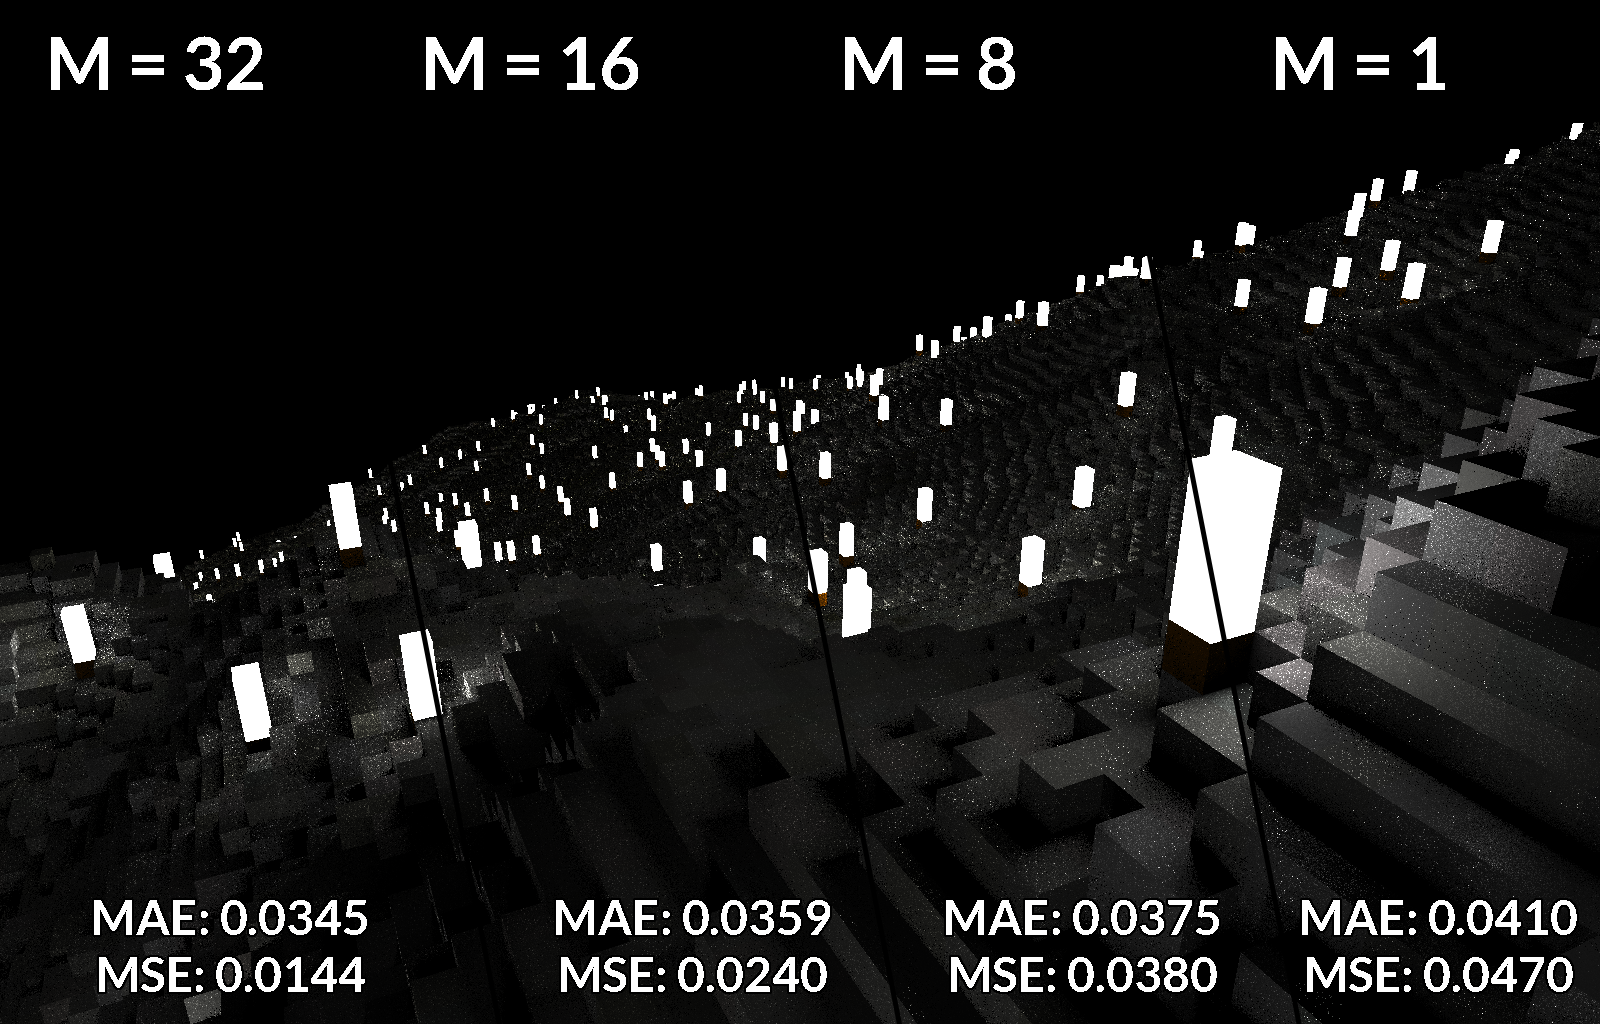
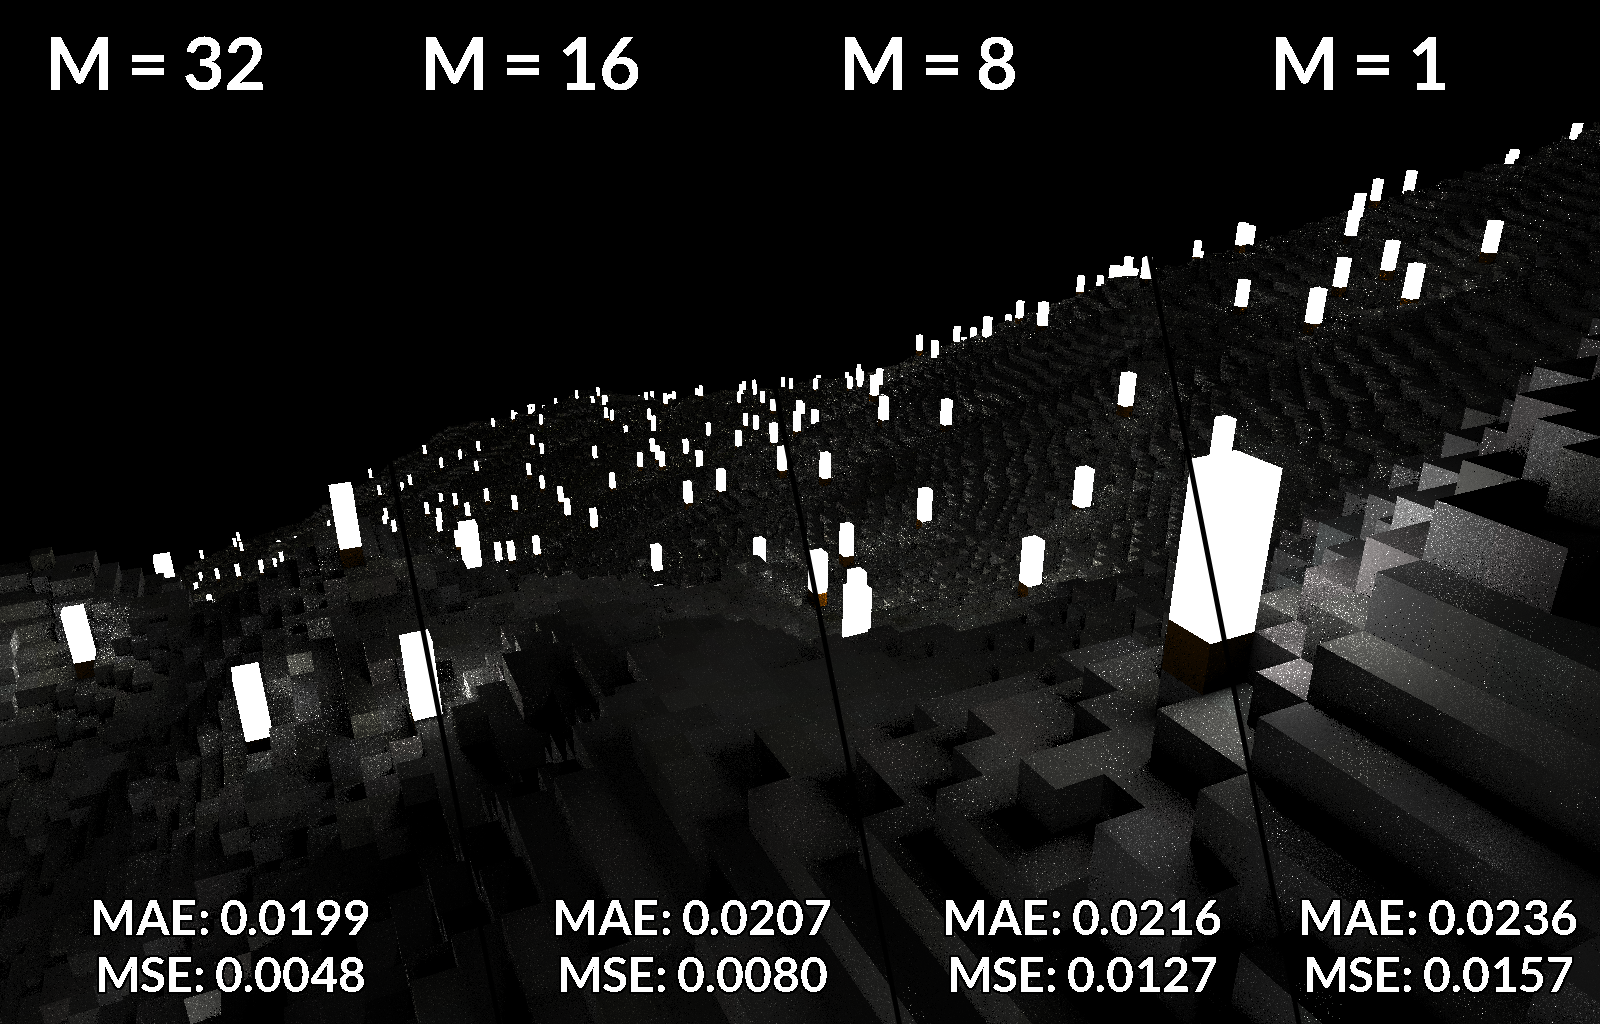
mae mse and skydome

diff --git a/mse.cpp b/mse.cpp
@@ -42,14 +42,13 @@ float CalculateMSE(const float4* gt, const float4* data, int width, int height)
 	{
 		float3 _gt = make_float3(gt[i]);
 		float3 _data = make_float3(data[i]);
-		float Y = length(_gt);
-		float Y_hat = length(_data);
 
 		//float Y = (gt[i].x + gt[i].y + gt[i].z) / 3.0f;
 		//float Y_hat = (data[i].x + data[i].y + data[i].z) / 3.0f;
-		total += (Y - Y_hat) * (Y - Y_hat);
+		float3 y = (_gt - _data) * (_gt - _data);
+		total += y.x + y.y + y.z;
 	}
-	return total / N;
+	return total / (N * 3);
 }
 
 float CalculateRMAE(const float4* gt, const float4* data, int width, int height)
@@ -60,14 +59,13 @@ float CalculateRMAE(const float4* gt, const float4* data, int width, int height)
 	{
 		float3 _gt = make_float3(gt[i]);
 		float3 _data = make_float3(data[i]);
-		float Y = length(_gt);
-		float Y_hat = length(_data);
 
 		//float Y = (gt[i].x + gt[i].y + gt[i].z) / 3.0f;
 		//float Y_hat = (data[i].x + data[i].y + data[i].z) / 3.0f;
-		total += fabs(Y - Y_hat);
+		float3 y = fabs(_gt - _data);
+		total += y.x + y.y + y.z;
 	}
-	return total / N;
+	return total / (N * 3);
 }
 
 void stitchImage(std::filesystem::path p, vector<UBImage*> ubimages, int start, int segmentWidth)
@@ -205,51 +203,51 @@ void doCreateResultImages()
 		ToCompare[toCompareIndex].push_back(image);
 	}
 
-	{
-		path p = "screenbufferdata/results/point_sa_gt";
-		for (int i = 0; i < numberOfRasters; i++)
-		{
-			vector<UBImage*> _images;
-			_images.push_back(ToCompare[toCompareIndex - 1][i]);
-			_images.push_back(ToCompare[0][i]);
-			_images.push_back(gtImages[i]);
-			int w = _images[0]->width;
-			int segmentWidth = w / _images.size();
-			int start = 0.75f * segmentWidth;
-			stitchImage(p, _images, start, segmentWidth);
-		}
-	}
+	//{
+	//	path p = "screenbufferdata/results/point_sa_gt";
+	//	for (int i = 0; i < numberOfRasters; i++)
+	//	{
+	//		vector<UBImage*> _images;
+	//		_images.push_back(ToCompare[toCompareIndex - 1][i]);
+	//		_images.push_back(ToCompare[0][i]);
+	//		_images.push_back(gtImages[i]);
+	//		int w = _images[0]->width;
+	//		int segmentWidth = w / _images.size();
+	//		int start = 0.75f * segmentWidth;
+	//		stitchImage(p, _images, start, segmentWidth);
+	//	}
+	//}
 
-	{
-		path p = "screenbufferdata/results/gfxexp_sa_gt";
-		for (int i = 0; i < numberOfRasters; i++)
-		{
-			vector<UBImage*> _images;
-			_images.push_back(ToCompare[toCompareIndex][i]);
-			_images.push_back(ToCompare[0][i]);
-			_images.push_back(gtImages[i]);
-			int w = _images[0]->width;
-			int segmentWidth = w / _images.size();
-			int start = 0.75f * segmentWidth;
-			stitchImage(p, _images, start, segmentWidth);
-		}
-	}
+	//{
+	//	path p = "screenbufferdata/results/gfxexp_sa_gt";
+	//	for (int i = 0; i < numberOfRasters; i++)
+	//	{
+	//		vector<UBImage*> _images;
+	//		_images.push_back(ToCompare[toCompareIndex][i]);
+	//		_images.push_back(ToCompare[0][i]);
+	//		_images.push_back(gtImages[i]);
+	//		int w = _images[0]->width;
+	//		int segmentWidth = w / _images.size();
+	//		int start = 0.75f * segmentWidth;
+	//		stitchImage(p, _images, start, segmentWidth);
+	//	}
+	//}
 
-	{
-		path p = "screenbufferdata/results/sa_32_16_8_1";
-		for (int i = 0; i < numberOfRasters; i++)
-		{
-			vector<UBImage*> _images;
-			_images.push_back(ToCompare[0][i]);
-			_images.push_back(ToCompare[1][i]);
-			_images.push_back(ToCompare[2][i]);
-			_images.push_back(ToCompare[3][i]);
-			int w = _images[0]->width;
-			int segmentWidth = w / _images.size();
-			int start = 0.75f * segmentWidth;
-			stitchImage(p, _images, start, segmentWidth);
-		}
-	}
+	//{
+	//	path p = "screenbufferdata/results/sa_32_16_8_1";
+	//	for (int i = 0; i < numberOfRasters; i++)
+	//	{
+	//		vector<UBImage*> _images;
+	//		_images.push_back(ToCompare[0][i]);
+	//		_images.push_back(ToCompare[1][i]);
+	//		_images.push_back(ToCompare[2][i]);
+	//		_images.push_back(ToCompare[3][i]);
+	//		int w = _images[0]->width;
+	//		int segmentWidth = w / _images.size();
+	//		int start = 0.75f * segmentWidth;
+	//		stitchImage(p, _images, start, segmentWidth);
+	//	}
+	//}
 }
 
 // -----------------------------------------------------------

diff --git a/mygame.cpp b/mygame.cpp
@@ -17,6 +17,7 @@ static bool shouldDumpBuffer = false;
 static bool takeScreenshot = false;
 static bool useSpatialResampling = USESPATIAL;
 static bool useTemporalResampling = USETEMPORAL;
+static bool skyDomeSampling = true;
 
 static unordered_map<string, void*> commands;
 static unordered_map<string, function<void(MyGame&, string)>> functionCommands;
@@ -36,7 +37,7 @@ static float3 Os[10] = {
 	float3(107.85, 60.81, -48.86), float3(107.85, 60.81, -48.86)
 };
 
-static int world_index = 3;
+static int world_index = 2;
 static int angle_offset_index = 0;
 
 // -----------------------------------------------------------
@@ -102,6 +103,7 @@ void MyGame::Init()
 	params.spatialRadius = SPATIALRADIUS;
 	params.numberOfCandidates = NUMBEROFCANDIDATES;
 	params.numberOfMaxTemporalImportance = TEMPORALMAXIMPORTANCE;
+	params.skyDomeSampling = skyDomeSampling;
 	world.GetDebugInfo().counter = 0;
 
 	commands.insert({ "spatialtaps", &params.spatialTaps });
@@ -110,6 +112,7 @@ void MyGame::Init()
 	commands.insert({ "temporalimportance", &params.numberOfMaxTemporalImportance });
 	commands.insert({ "spatial", &params.spatial });
 	commands.insert({ "temporal", &params.temporal });
+	commands.insert({ "skydome", &params.skyDomeSampling });
 	functionCommands.insert({ "addlights", [](MyGame& _1, string _2) {IntArgFunction([](MyGame& g, int a) {g.GetLightManager().AddRandomLights(a); }, _1, _2, 2500); }});
 	functionCommands.insert({ "removelights", [](MyGame& _1, string _2) {IntArgFunction([](MyGame& g, int a) {g.GetLightManager().RemoveRandomLights(a); }, _1, _2, 2500); } });
 	functionCommands.insert({ "movelightcount", [](MyGame& _1, string _2) {IntArgFunction([](MyGame& g, int a) {g.GetLightManager().SetUpMovingLights(a); }, _1, _2, 2500); } });

diff --git a/template/precomp.h b/template/precomp.h
@@ -1350,9 +1350,9 @@ public:
 	// pixel. A collection of these can be found online at http://www.hdrlabs.com/sibl/archive.html. Additional
 	// bitmaps can be found via https://cgtricks.com/list-sites-free-hdri and https://polyhaven.com/hdris.
 	// It is advisable to use a high resolution image of 5000x2500 pixels or larger.
-	static inline string skyDomeImage = "assets/sky_21.hdr";
+	static inline string skyDomeImage = "assets/sky_15.hdr";
 	static inline float skyDomeScale = 1.5f;		// brightness scale for the image
-	static inline float skyDomeLightScale = 10.0f;	// brightness scale for the dome in rendering
+	static inline float skyDomeLightScale = 2.0f;	// brightness scale for the dome in rendering
 };
 
 // EOF

diff --git a/template/common.h b/template/common.h
@@ -104,7 +104,7 @@ struct RenderParams
 	float4 Nleft, Nright, Ntop, Nbottom;
 	float4 prevRight, prevDown;
 	float4 prevP0, prevP1, prevP2, prevP3;
-	int accumulate, spatial, temporal; //booleans
+	int accumulate, spatial, temporal, skyDomeSampling; //booleans
 	uint numberOfLights;
 	uint numberOfCandidates;
 	uint numberOfMaxTemporalImportance;
